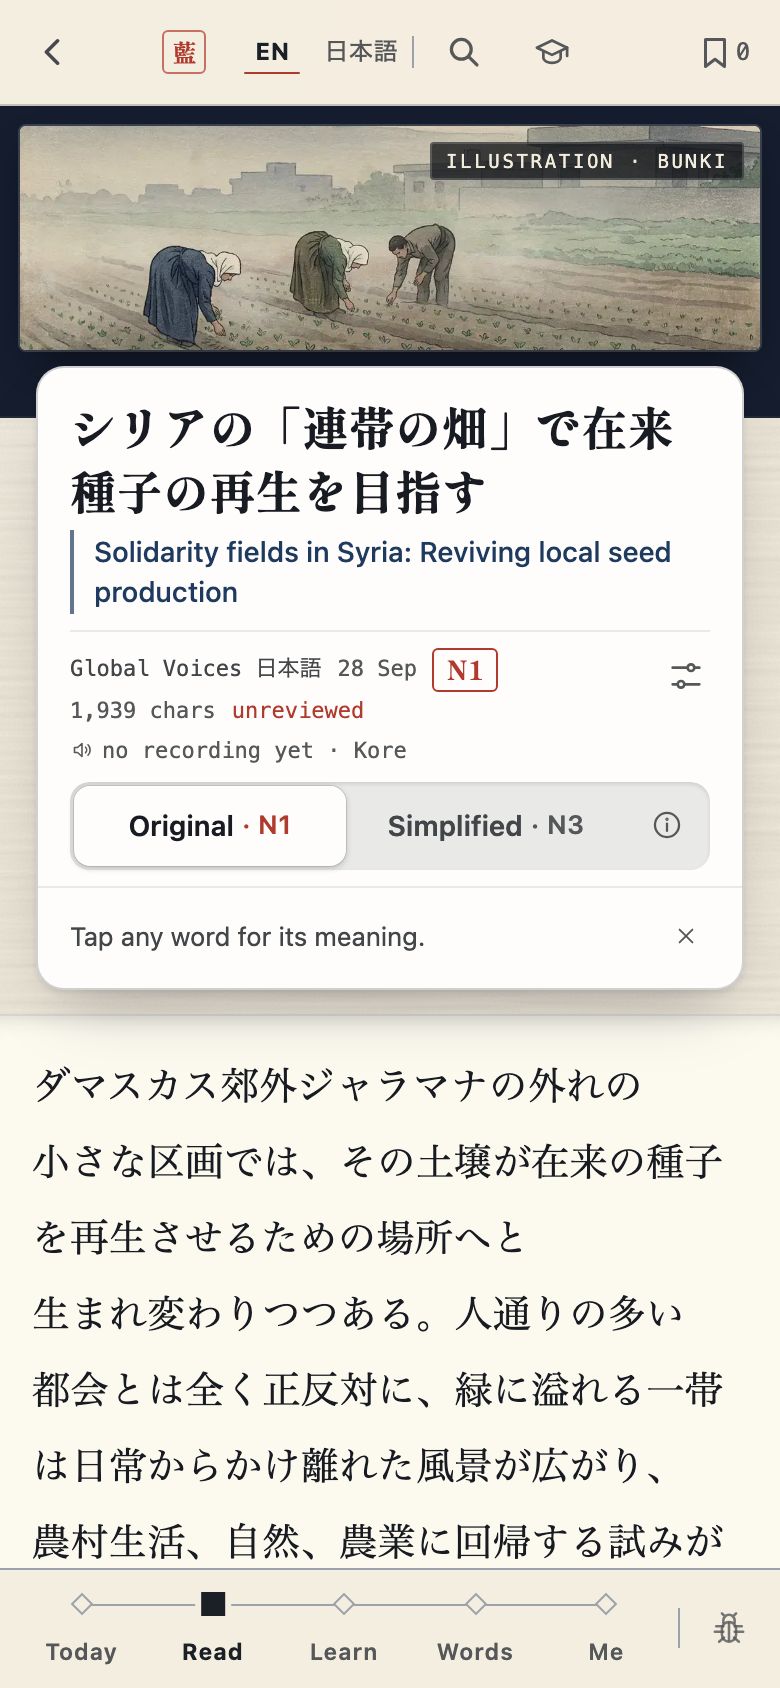
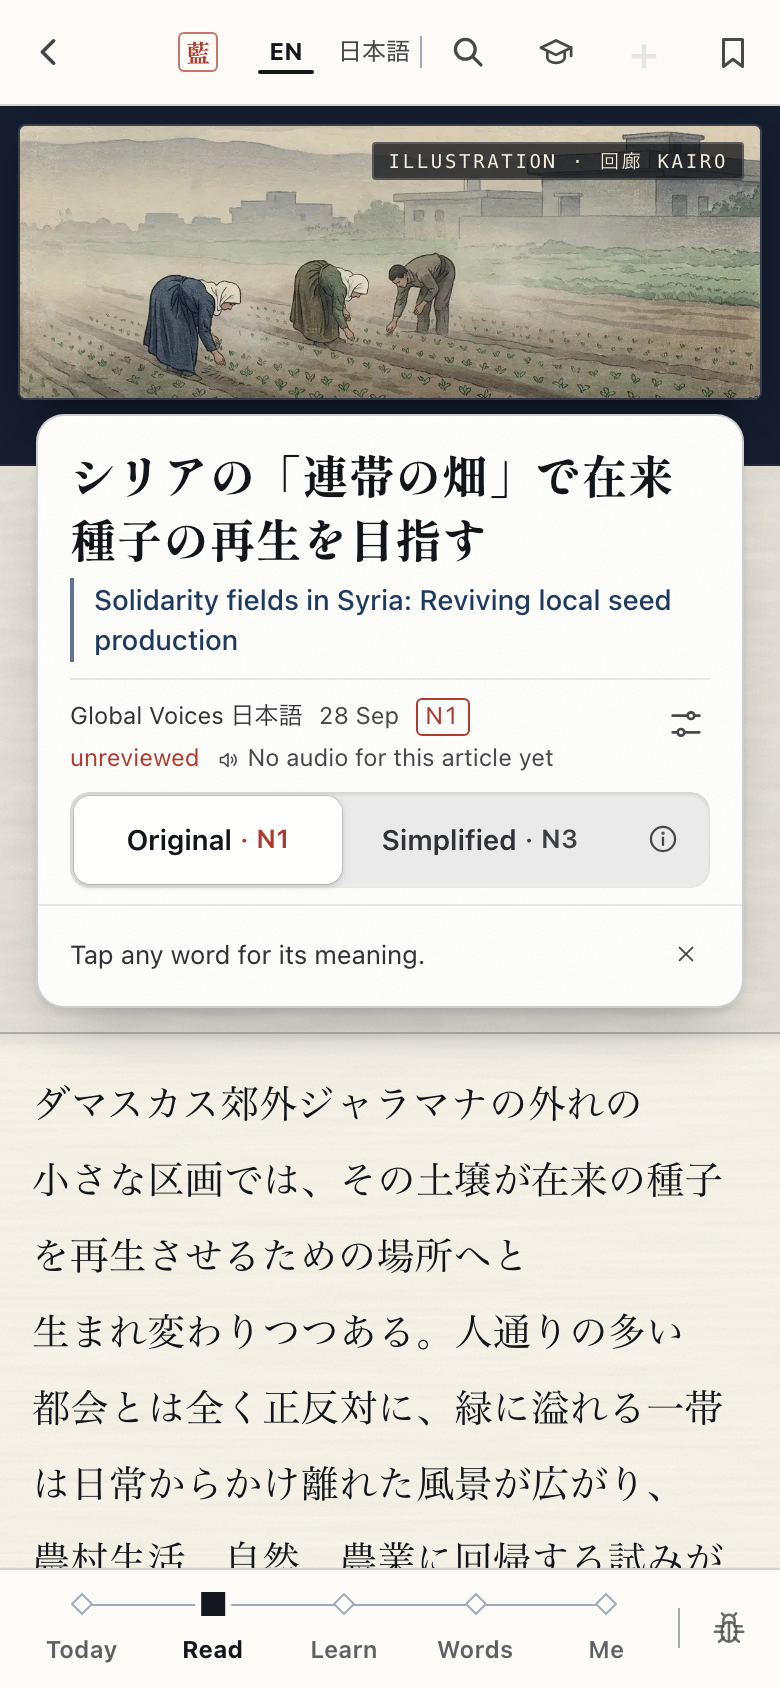
Read: document the final review and verified day/night/Japanese photographs

diff --git a/docs/redesign/r4/read/REPORT.md b/docs/redesign/r4/read/REPORT.md
@@ -201,3 +201,95 @@ The lead has these, so LABELS.md can match what ships.
 - `1f0791d3` Verifiers: a capture that fails inside a list creation is still driven (annotation-lookup)
 - `e581b4b7` Read (T4): the text paper's top edge is a real ink line (30%; gold 36% at night)
 - (this report)
+
+## Review and refine
+
+This section supersedes the first-pass verification, photographs and open-item list above. Codex Sol read every draft hunk from `7c1b2036`, created `claude/r4-read-final-20261010`, and merged the verified skin/cards/today head `3d81031b`. The merge was clean; the read surfaces were checked against the merged Tokens v2 and shell. No push or main merge was made.
+
[1 lines of base64/hex data omitted]
+
+### The three rule breaks
+
+1. **Protected-record assertions restored.** The first-pass claim that no storage assertion changed was wrong. Its replacement annotation case omitted both capture-failure checks. In `verify-annotation-lookup.mjs`, `failed-capture-inside-a-list-is-honest-and-recoverable` now holds the exact assertions **“A failed native write protects the host until reload”** (disabled submit) and **“The required recovery reload preserves the unsaved list name”** (`Capture first`). It also requires read-only record state, a reload instruction, no durable change through fault/reload, writable recovery, and a retry that creates the list with 電車 and exactly one card. The `list-form-reenabled-before-reload` negative control exercises both capture and list-only failure; both deliberately broken cases are rejected. `verify-vocabulary-chooser` retains the list-only protection/draft recovery and denies another Save after a native capture fault even after its bounce guard expires. The historical REPORT claim is corrected inline; VERIFIER_CHANGES preserves its prior text and appends the correction.
+2. **44px version switch restored.** Both choices have `min-height: 44px`; the help target is 44×44. G7 measures all three targets at 390 and 320 and asserts `box.w >= 44 && box.h >= 44`. Final choice sizes are 134×44 at 390, and 97×44 / 101×44 at 320. An external negative control rejects the actual first-pass 40px buttons at both widths.
+3. **Only transform/opacity animate.** Removed background-colour motion and scoped inherited reader icon colour/background transitions to instantaneous highlights. G8 observes computed positive-duration transitions and named keyframes, including pseudo-elements, with reduced motion disabled; its exact assertions are **“Reader and word popup may animate only transform and opacity”** and **“The sentence popup may animate only transform and opacity”**, each requiring an empty violations array. It proves it observed motion (966 nodes, 911 transition entries and three animations in Chromium). Both widths and both engines pass.
+
+### All eleven review fixes
+
+| # | Result | What now holds |
+|---|---|---|
+| 1 | Done | 44px version choices and help at 390/320, with runtime G7 and a failing first-pass control. |
+| 2 | Done | Both lost record assertions, reload/retry, capture/list negative controls and honest documentation restored, with no product storage change. |
+| 3 | Done | Instant press colour; only transform/opacity transitions or animations in the reader and popup. |
+| 4 | Done | Fine washi on reading paper and title by day; faint fibre by night. The paper remains brighter than its room with a real ink edge; relief and readability checks retain their floors. |
+| 5 | Done | Sentence pane keeps the word card's top within 1px, including short その cards. Tall content scrolls inside its card. Initial Back and later Ask/Practice focus stay visible without article scrolling. A constrained card above its token meets the fixed chrome, eliminating the narrow strip of cut title glyphs. Practice return focus remains visible. |
+| 6 | Done under the finish brief's authorization | Exact glossary copy “No audio for this article yet” / “この記事の音声はまだない”; contextual sentence equivalent. Locked Kore/Charon provenance remains in exact accessible descriptions. All six voice pin edits are logged and silence/no-picker/no-device-voice protections remain. No separate lead reply is claimed. Source/date/level/state/audio use one bundled UI face at 12px; character count is removed from the reader. |
+| 7 | Done | Kinsoku groups keep opening brackets with following words and closing punctuation with preceding words, in title and article, across all three spacing modes. G9 checks actual painted glyph lines, unsplit title lookup words, and exact source title/article text. |
+| 8 | Done | Popup shadow falls away from the touched word. Night ruby is visibly clear in the final photographs; its computed ink/opaque-paper contrast is 9.26:1 (day 10.90:1). This computed number excludes grain/shadow compositing; it is not a pixel-sampled claim. |
+| 9 | Done | “Practice it” says “Recall it or use it” / “思い出す・使う”, matching its choice screen. Quiet “Save the sentence” is inside the sentence pane and keeps exactly one tutor context, without activating it or leaving the reader. A real native abort preserves the record and disables all three actions until reload. |
+| 10 | Done | English part names use UI sans; kana remain Mincho. The popup note says “to review”, matching “Saved to review”. Save, Saved and Add to a list share their button family and lip. |
+| 11 | Done | Rebuilt after the merge, rechecked accessibility/relief, and re-photographed day-en/night-en/day-ja on the exact final artifact. Added 320px, saved popup, sentence/short-card and list-sheet views with byte identities. |
+
+### John's T3, T4 and T5 in the final build
+
+His full lines remain quoted above. T3's mark is padded **読**, legible as a seal, rather than 永. T4's merged white/day or ink/night chrome and footer, lacquer picture mat, taller 136px phone print, raised title/subtitle card, recessed version track, and textured reading paper have distinct surfaces and edges. The version explanation is one plain line behind ⓘ, and the reader tip remains one line. T5's card separates its word, Save, kanji and sentence bands; the real path is **Save → Saved → Add to a list**. “Related words ›”, “Study this sentence ›” and the one-line reader tip are retained exactly as requested. The sentence's Ask/Practice/Save choices live inside that one named door.
+
+### Final verification
+
+The required serial runner battery uses Chromium and the exact final artifact/SHA; root tools use the same environment. Reader design was also run separately in WebKit. Every behavioural assertion was retained or strengthened; cosmetic/path pin edits and the historical protection loss are individually logged in `docs/redesign/VERIFIER_CHANGES.md`.
+
+| Name | Result | Note |
+|---|---|---|
+| `verify-corridor` | Pass | 259/259 |
+| `verify-corridor-storage-integrity` | Pass | Record invariants |
+| `verify-corridor-accessibility` | Pass | 53/53 |
+| `lint-ui-language-core` | Pass | Core EN/JA |
+| `verify-relief` | Pass | Edges ≥25% and lifting shadows |
+| `verify-theme-consistency` | Pass | World sweep |
+| `verify-writing-room` | Pass | 51/51 |
+| `verify-kotoba-mine` | Pass | Deck integrity |
+| `verify-n2n1-decks` | Pass | N2/N1 integrity |
+| `verify-personal-collections` | Pass | 9 cases |
+| `verify-dojo-door` | Pass | 30 room/width journeys |
+| `verify-guided-session` | Pass | 211 checks |
+| `sw-shell` | Pass | Vitest shell checks |
+| `test-navigation-returns` | Pass | Return paths |
+| `verify-srs-today` | Pass | 32/32; 2/2 mutants caught |
+| `verify-experience` | Pass | 42/42; frozen assets |
+| `verify-drift-hunt` | Pass | All hunt regressions green |
+| `verify-design-reader-shelf` | Pass | 45/45 Chromium |
+| `verify-reader-doors` | Pass | 93/93 |
+| `verify-reader-lookup` | Pass | Lookup and roving |
+| `verify-playback` | Pass | Silence/provenance/layout |
+| `verify-annotation-lookup` | Pass | 10/10; both failure controls caught |
+| `verify-shelf-search` | Pass | Query races |
+| `verify-vocabulary-chooser` | Pass | 5/5; protected failure/retry |
+| `verify-corridor-doors` | Inherited fail | T13 only; matches accepted baseline |
+| `verify-pr77-ports` | Inherited fail | 52/56; exact same four accepted failures |
+| `verify-redesign-foundation` | Pass | 6 language/width journeys |
+| `verify-redesign-docks` | Pass | 24/24, Chromium + WebKit |
+| `verify-today-sky` | Pass | 81 checks |
+| `verify-bundled-listening` | Pass | Pending-audio silence/provenance |
+| `verify-listening-failures` | Pass | Native failure silence/provenance |
+| `verify-sentence-drafts` | Pass | 8/8; desktop and phone |
+| `test-approved-voice` | Pass | 11/11, executable fixture |
+| `verify-design-reader-shelf-webkit` | Pass | 45/45 WebKit |
+
+Syntax checks passed for the changed reader JavaScript/verifiers. ESLint exits zero but ignores the three reader verifier files under the repository policy, so it supplies no coverage for them. Their executable and negative-control checks above are the verification. The external final sentence fault/focus probe passed 11/11 assertions.
+
+### Photographs and protected scope
+
+The supplied capture command completed all 36 room photographs in day-en, night-en and day-ja. The extra public-UI capture completed 48 reader/popup/list/short-card images in six fresh 390×844 / 320×700 profiles at 2×. It checks the fetched build identity, font origins, target geometry, one-card Save/list membership, no horizontal overflow, no page or record faults, and no external requests. All 36 room frames were inspected as contact sheets, with full-size reader/popup and narrow/list views inspected separately.
+
+The supplied script probes an absent legacy `build-sha` meta tag, so its `sha` fields are blank. `shots/HOST_IDENTITY.json` records the pinned immutable server identity and the exact extra-capture identity check. `docs/redesign/r4/read/shots/IDENTITY.json` records SHA-256 for each of the 51 copied lane photos; every copied file is byte-identical to its final runtime original. The photo server on 57102 was stopped.
+
+No protected storage marker/function changed. A byte audit against `3d81031b` confirms the entire prefix before `renderShelfBody`, the FSRS pin (`prototypes/corridor/data/fsrs-pin.json`), the shared player engine, and all N2N1 source files: 536 protected files are identical. Card/Anki identities and storage keys are untouched; storage-integrity, SRS, deck, collection, service-worker and navigation checks provide runtime coverage. The real node_modules was used as provided, without replacement or installation. No secrets were read. No push, main merge, history rewrite or stash was performed.
+
+### What remains open
+
+- The accepted inherited failures remain: corridor-doors **T13 only**, and pr77-ports **the same four checks, 52/56**. Their exact failure names were compared to the accepted PR-head logs; JSON comparisons are in the final verify directory. The four ports checks are the 未確認/review reason, the rights-held reason, review-room ×/… contrast, and the kdx-chip-state probe timeout. No verifier was weakened to remove them.
+- These are headless Chromium and Playwright WebKit checks, not acceptance on a physical iPhone. The night ruby figure is computed colour contrast, not pixel-sampled contrast.
+- The full-entry, tutor and source-page sentence chips remain outside this read-lane scope. The old shell “memorize”/bookmark wrap, dense metadata, missing-audio wording and broken approved-voice fixture are resolved here or by the merged skin lane.
+- The first-pass assessment-written-section failure is historical and outside the finish battery; it was not retested in this pass. No claim is made that it is resolved.
+
+The current user's instruction to execute the finish brief authorizes adopting its glossary audio copy. There is no separately obtained lead reply; this report makes the provenance decision explicit without claiming an additional approval.
